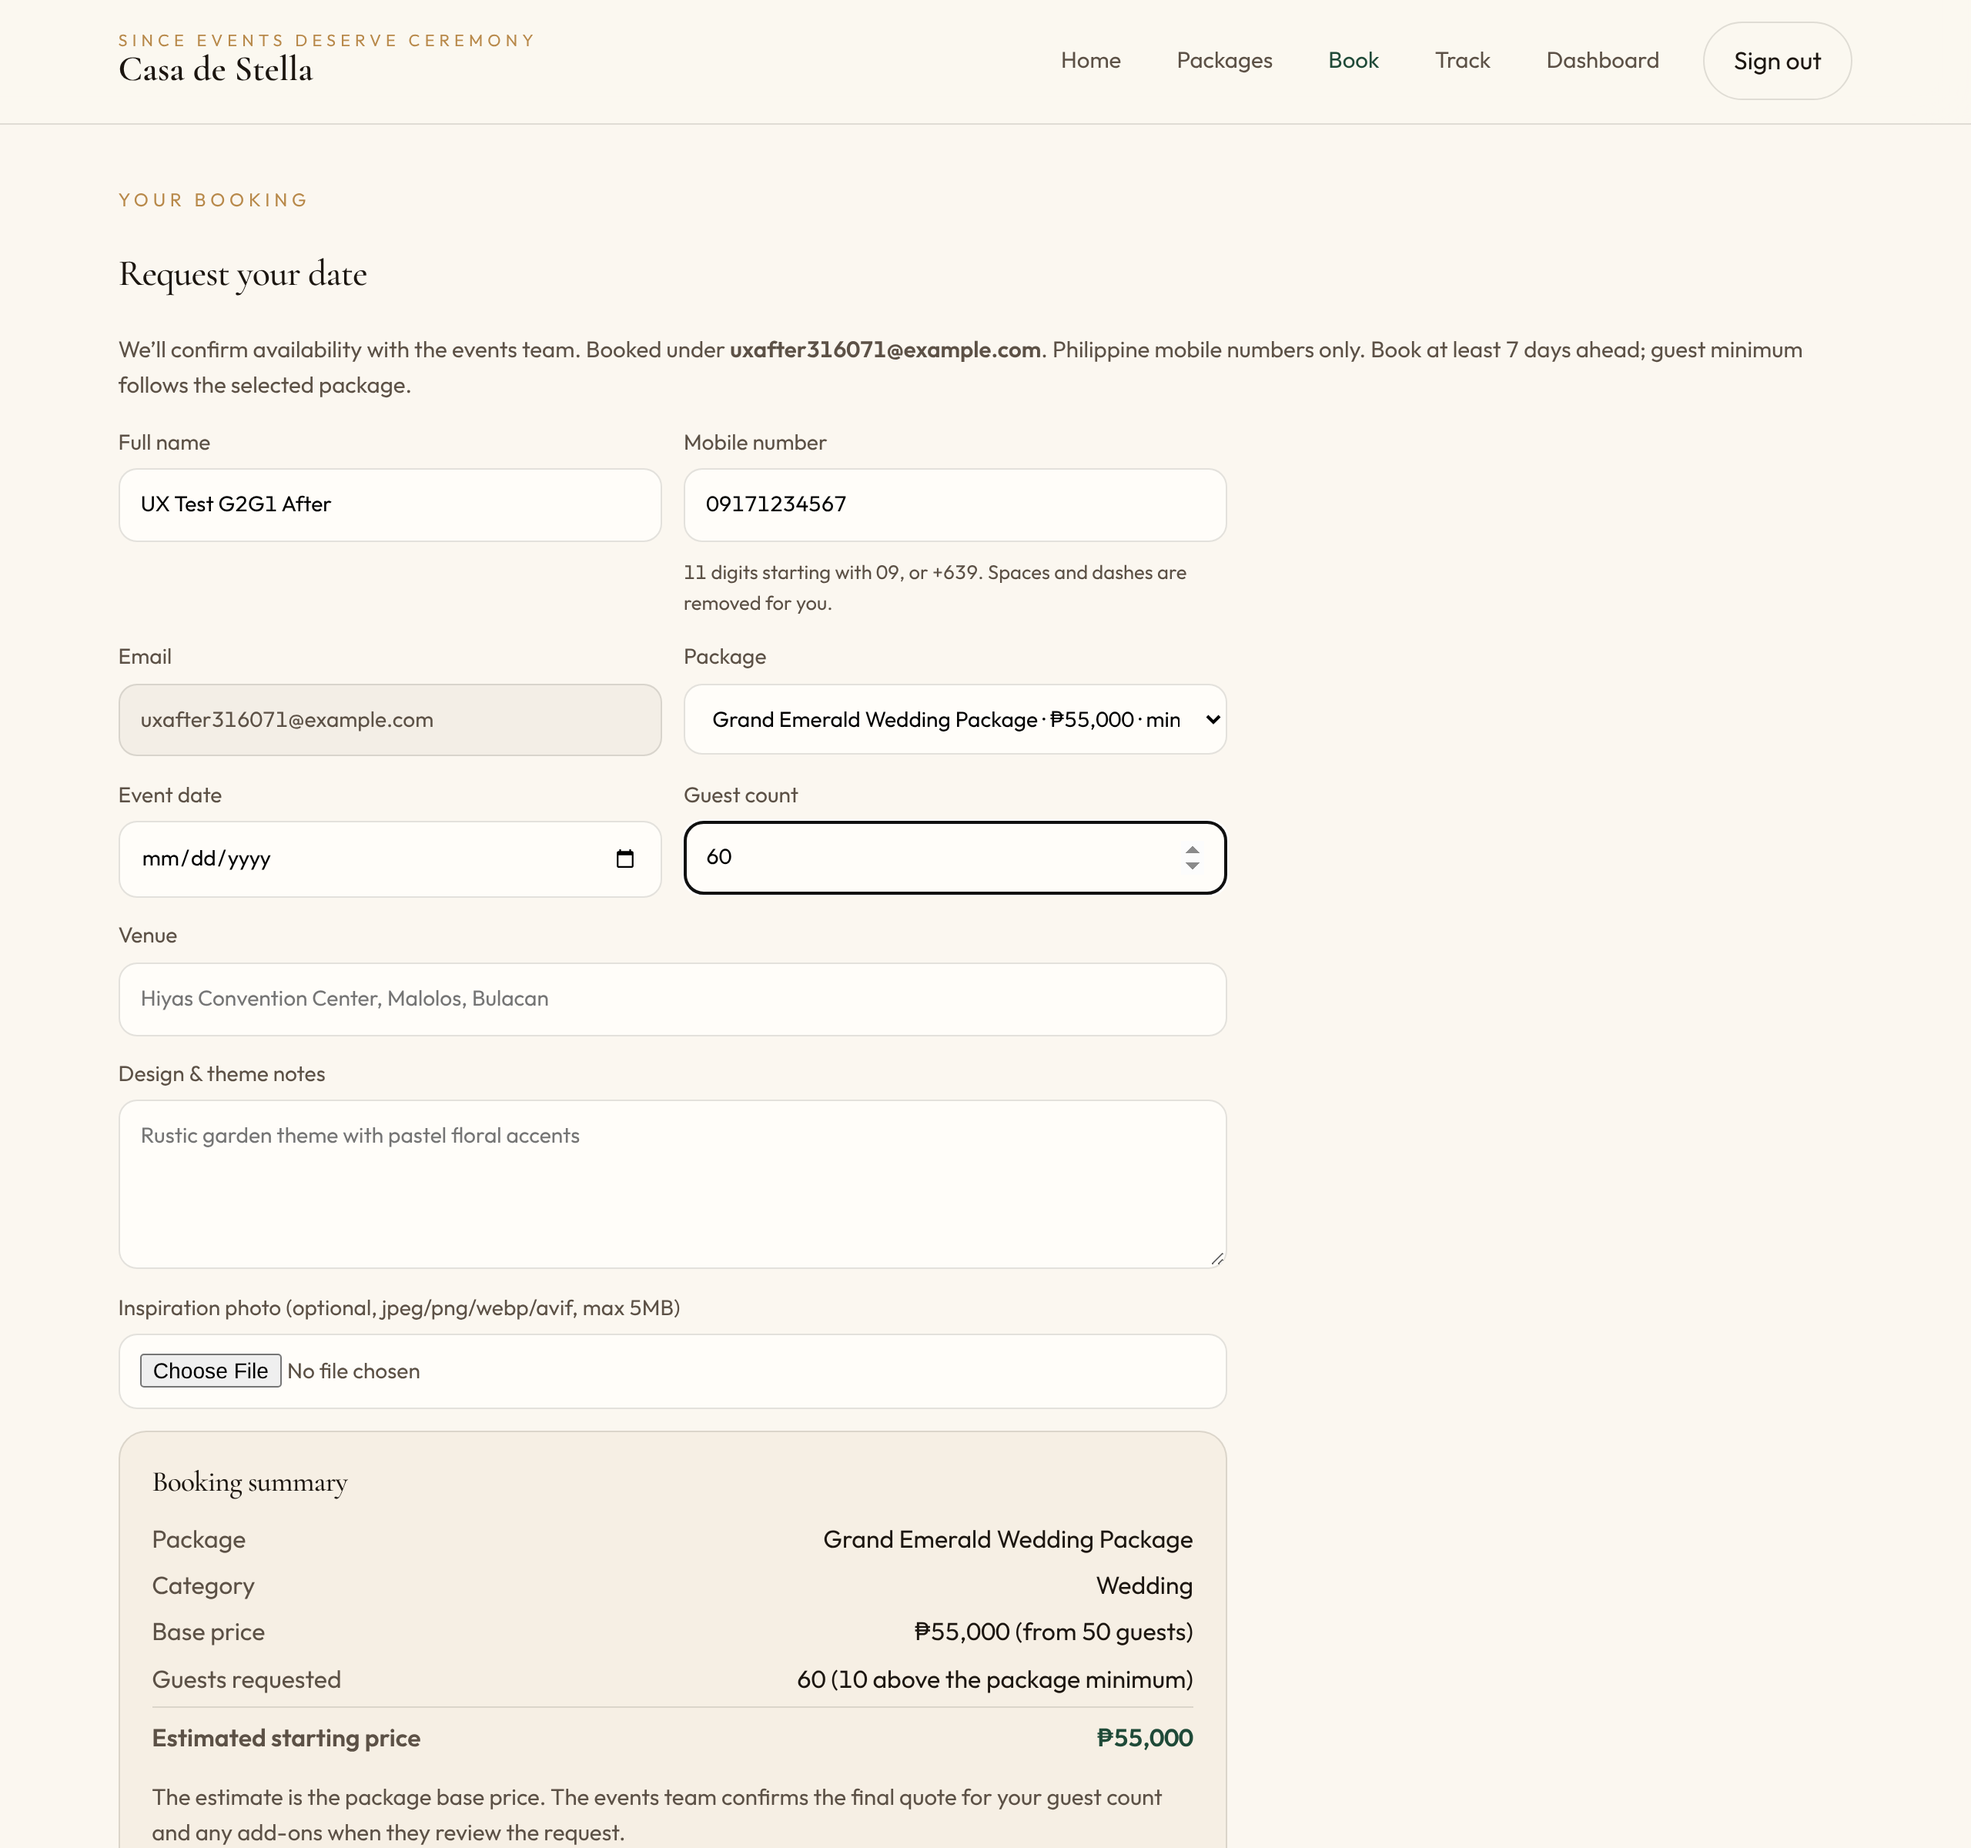
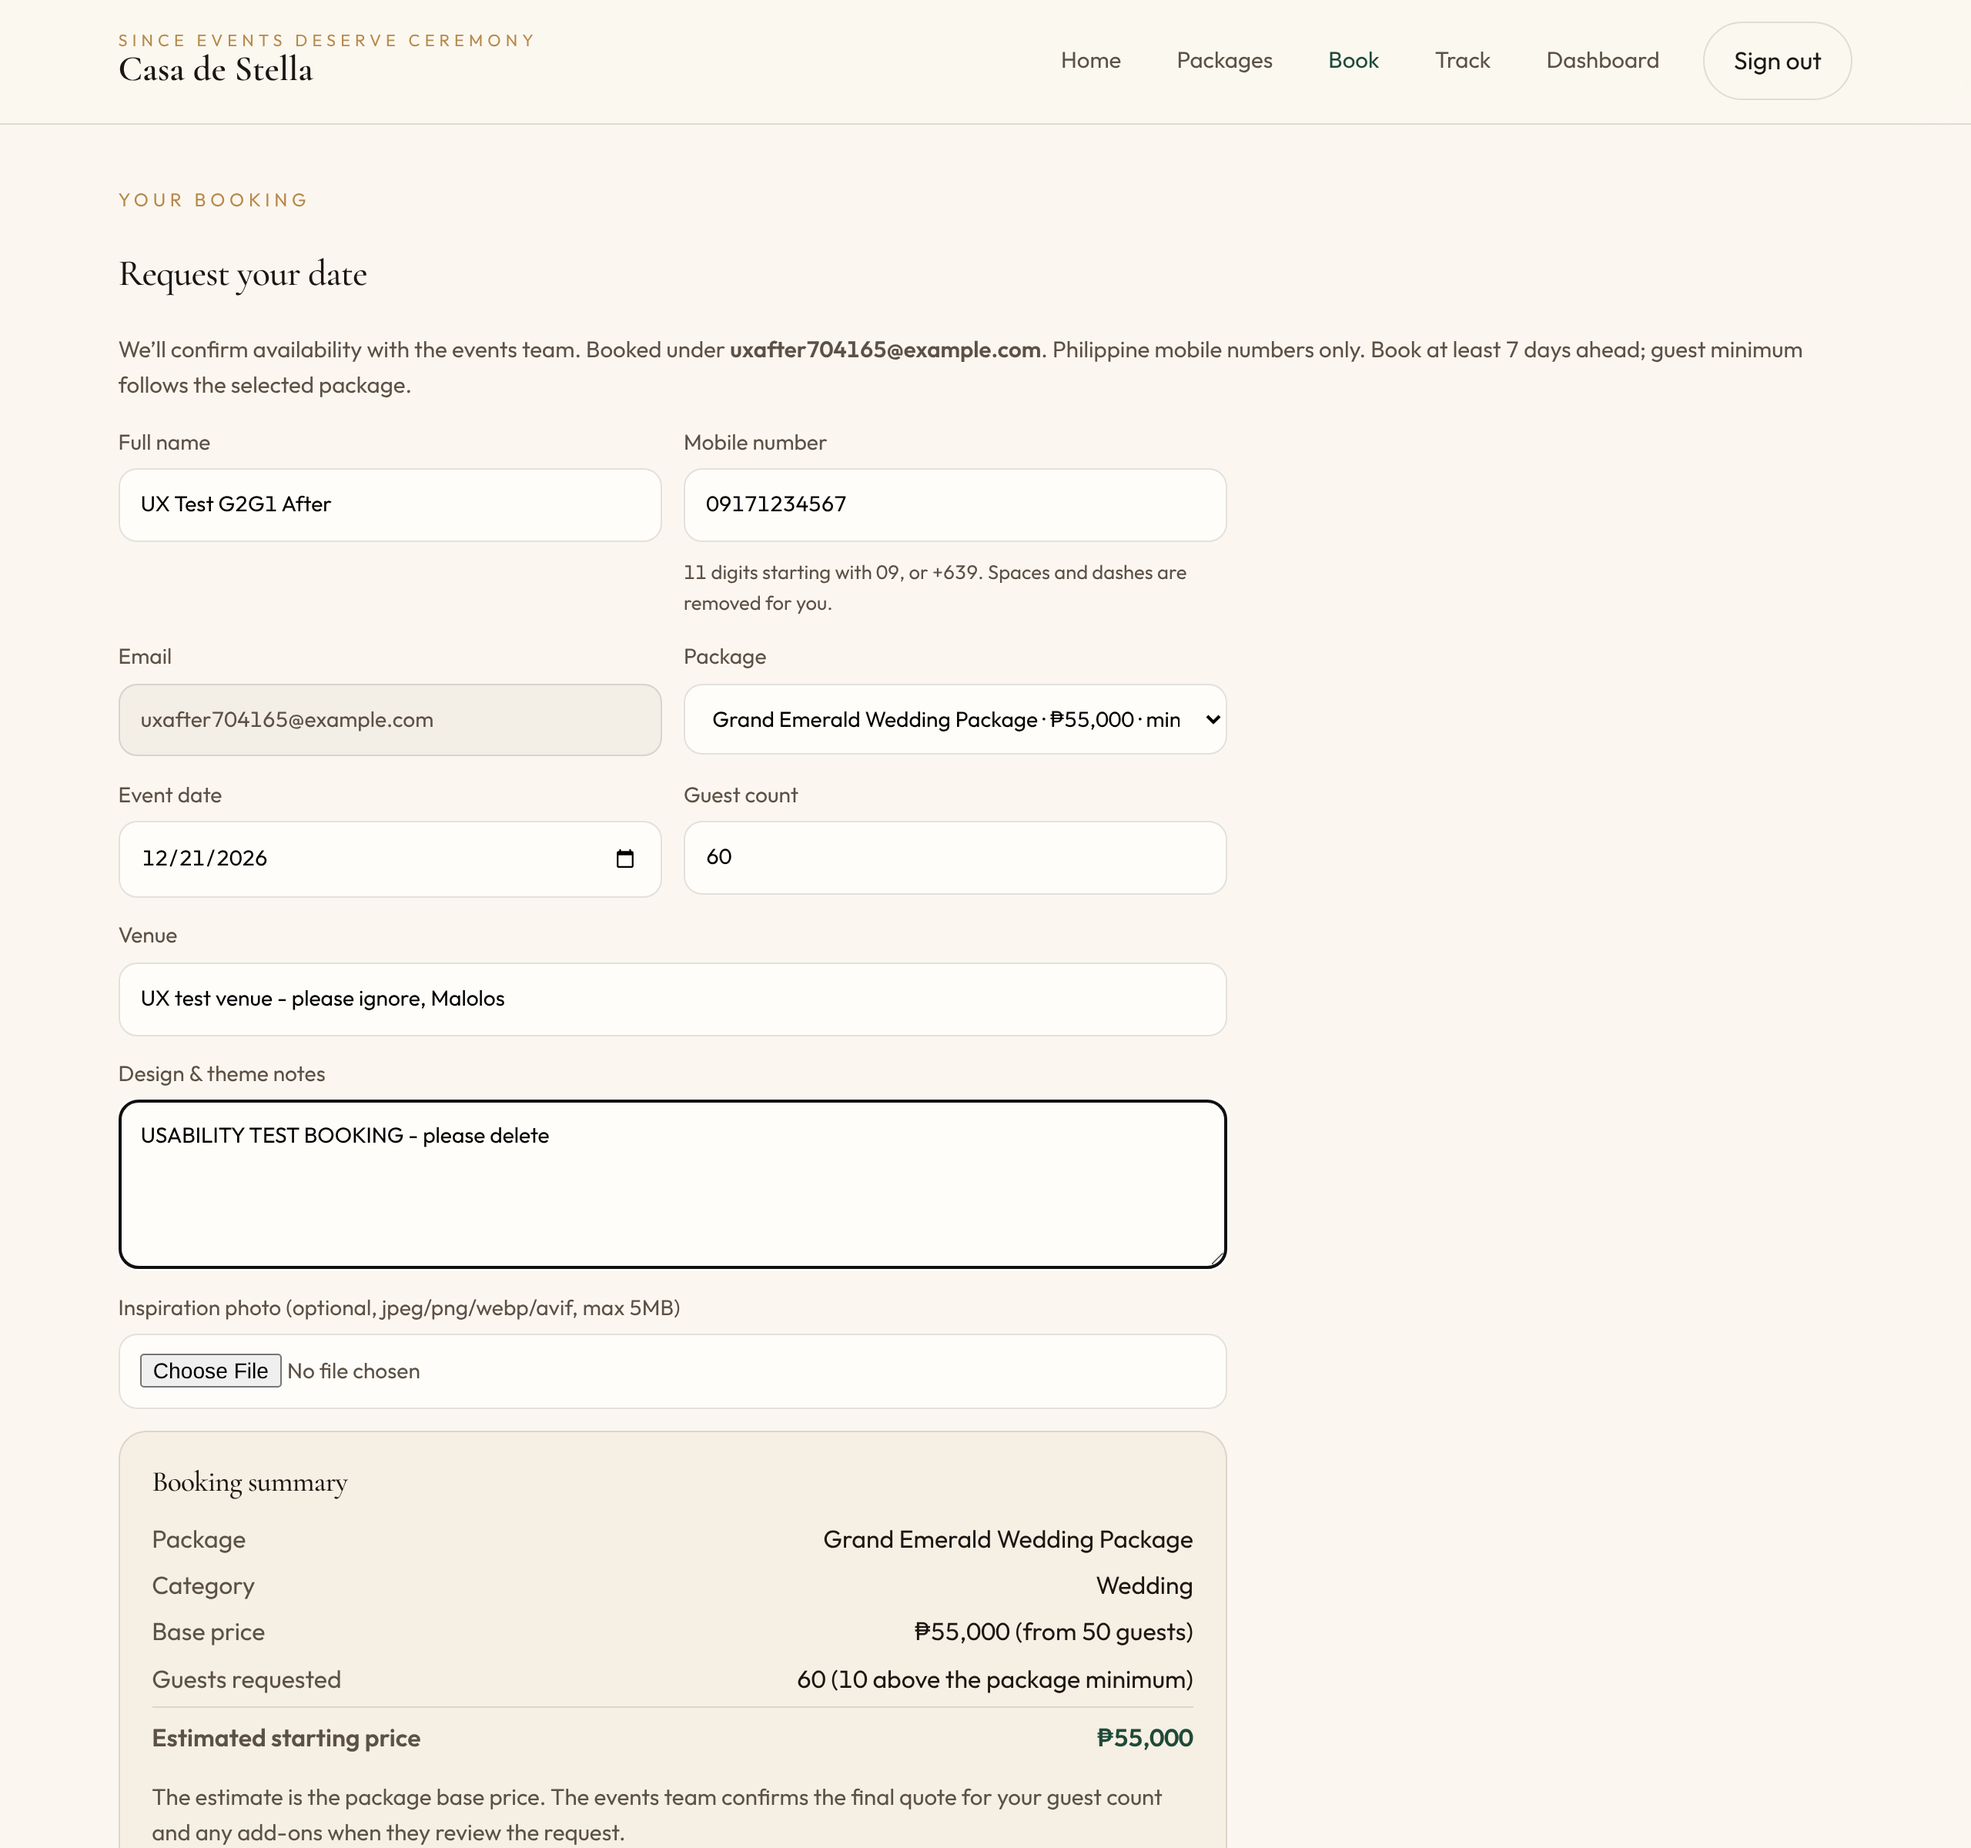
docs(ux): retake after screenshots from the hosted refined build
Adds client-web/preview-server.js, which serves the refined frontend and
forwards /api to the live Worker (same-origin, as on Cloudflare Pages).
The after screenshots for B-01, B-02, B-04, B-07 and B-10 are now taken
from that hosted build with a real sign-up and booking (test records
deleted afterwards).

Claude-Session: https://claude.ai/code/session_01C9cYx3nDvSB2eRt2PdE7kz

diff --git a/client-web/preview-server.js b/client-web/preview-server.js
@@ -1,0 +1,16 @@
+// Preview host for client-web: serves the static files and forwards /api/* to the live Worker,
+// so the app runs same-origin exactly as on Cloudflare Pages.
+const http=require('http'),https=require('https'),fs=require('fs'),path=require('path');
+const ROOT=__dirname, API='stella-catering-82j.pages.dev', PORT=8787;
+const T={'.html':'text/html; charset=utf-8','.js':'application/javascript','.css':'text/css','.png':'image/png','.svg':'image/svg+xml'};
+http.createServer((req,res)=>{
+ const u=new URL(req.url,'http://x');
+ if(u.pathname.startsWith('/api/')){
+  const h={...req.headers,host:API};delete h.origin;delete h.referer;
+  const up=https.request({host:API,path:req.url,method:req.method,headers:h},r=>{res.writeHead(r.statusCode,r.headers);r.pipe(res);});
+  up.on('error',e=>{res.writeHead(502);res.end(String(e));});return req.pipe(up);
+ }
+ let p=decodeURIComponent(u.pathname);if(p==='/')p='/index.html';
+ const f=path.join(ROOT,path.normalize(p));if(!f.startsWith(ROOT)||!fs.existsSync(f)||fs.statSync(f).isDirectory()){res.writeHead(404);return res.end('not found');}
+ res.writeHead(200,{'content-type':T[path.extname(f)]||'application/octet-stream','cache-control':'no-store'});fs.createReadStream(f).pipe(res);
+}).listen(PORT,'0.0.0.0',()=>console.log('preview on',PORT));

diff --git a/client-web/README.md b/client-web/README.md
@@ -9,3 +9,10 @@ the deployment so the repository matches what is running. Later commits apply th
 Phase 3 UX refinements (B-01 to B-11, except B-06).
 
 Deploy: upload this folder as the Pages project's static assets (no build step).
+
+## Preview without Cloudflare access
+
+`node preview-server.js` serves this folder on port 8787 and forwards `/api/*` to the live
+Worker at stella-catering-82j.pages.dev, so the refined frontend runs same-origin against the
+real API and data. Open it by the machine's hostname or IP, not `localhost` or `127.0.0.1`
+(`js/api.js` sends API calls to a local XAMPP path for those two hostnames).
